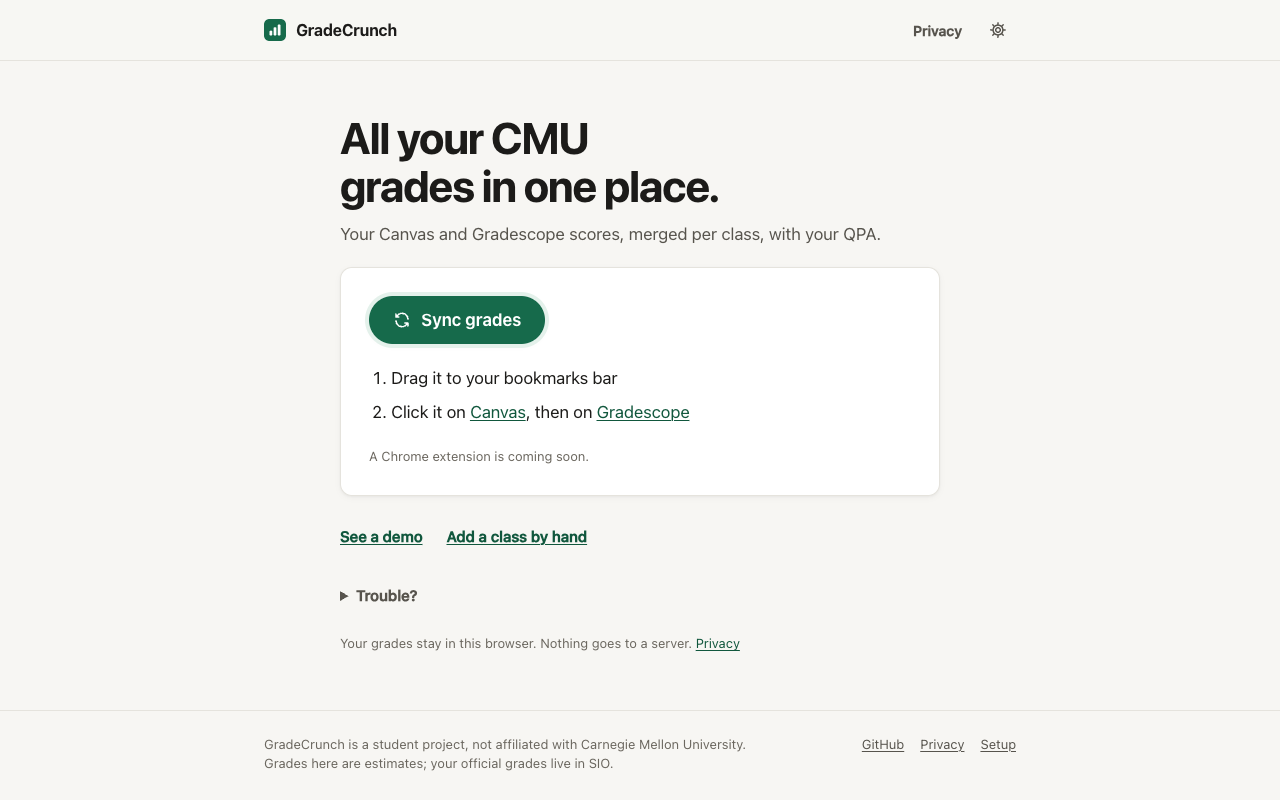
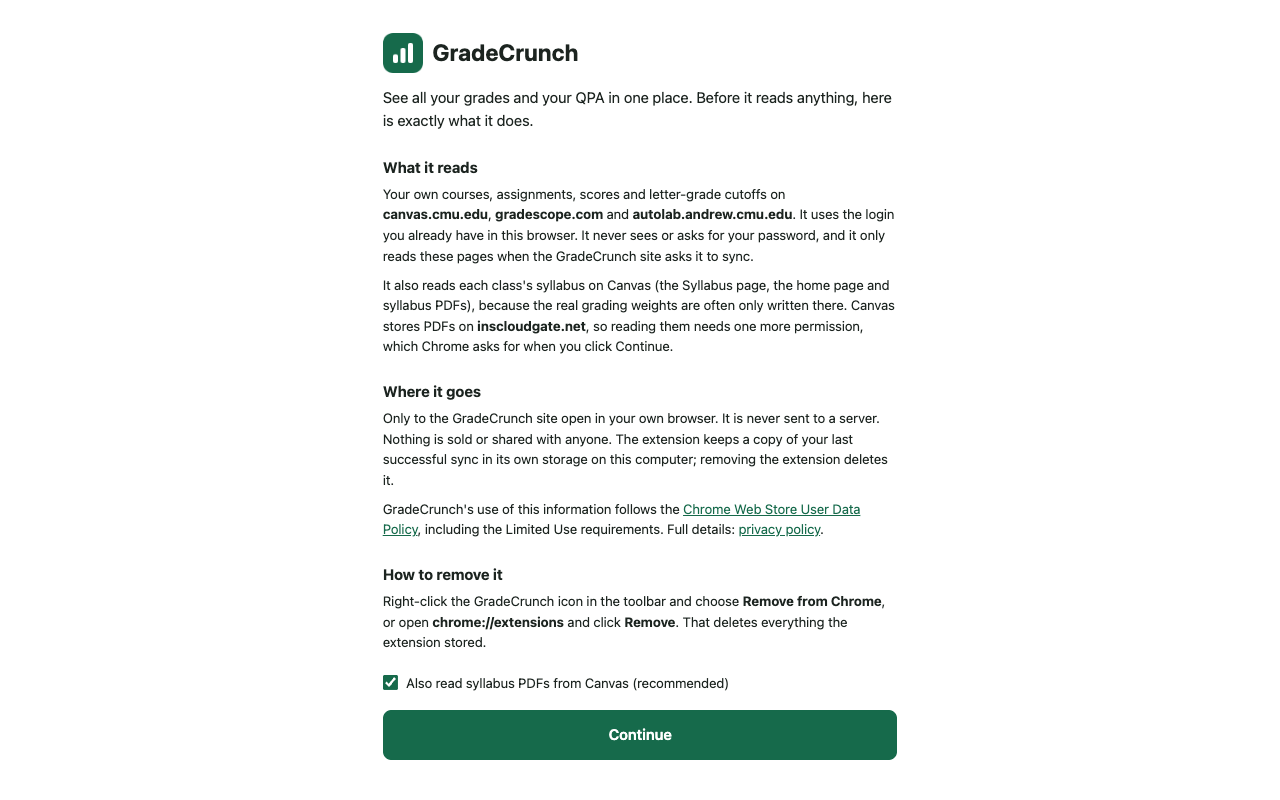
Store screenshot 3 shows the extension's welcome page

diff --git a/CHROMEWEBSTORE.md b/CHROMEWEBSTORE.md
@@ -57,7 +57,7 @@ estimated QPA, on the GradeCrunch website. (**1.1.0** - name SIO next to Autolab
 | Store Icon | 128x128 PNG | Ready | extension/icons/icon128.png (inside the zip) |
 | Screenshot 1 | 1280x800 | Ready | store/screenshot-2-dashboard.png |
 | Screenshot 2 | 1280x800 | Ready | store/screenshot-3-class.png |
-| Screenshot 3 | 1280x800 | Replace | store/screenshot-1-welcome.png |
+| Screenshot 3 | 1280x800 | Ready | store/screenshot-1-welcome.png |
 | Small Promo Tile | 440x280 | Ready | store/promo-tile-440x280.png |
 | Marquee Promo Tile | 1400x560 | Not made (optional) | |
 
@@ -69,9 +69,9 @@ All sizes checked 2026-11-13.
   for an A. Demo data.
 - Screenshot 2 (class page, 15-122) - percent and letter, what you need for each letter, assignments by category with
   weights, the what-if switch. Demo data.
-- Screenshot 3 - the current file is the old website home page (bookmarklet steps and "A Chrome extension is coming
-  soon"), which is wrong for the extension's own listing. Replace it with the extension's welcome page (what it reads,
-  where it goes, the syllabus PDF checkbox) or leave it out.
+- Screenshot 3 (extension welcome page) - what it reads, where it goes, how to remove it, the syllabus PDF checkbox
+  and Continue, as a student sees it right after installing. Taken from the v1.1.0 build on 2026-11-13 at 83% zoom so
+  the whole page down to Continue fits in 1280x800. Retake it once the welcome page mentions SIO.
 
 ## Permissions Justification
 
@@ -157,10 +157,10 @@ still has to be added for 1.1.0.
 - [ ] Developer account registered (steps in `store/LISTING.md`).
 - [ ] Fresh `npm run build:extension`, then upload `gradecrunch-extension.zip` (it holds only the extension's own
   files, no source, tests or docs).
-- [ ] Screenshot 3 replaced (see Screenshot Notes).
+- [x] Screenshot 3 replaced with the extension's welcome page (2026-11-13).
 - [ ] Site deployed, so the privacy policy covers syllabi and the PDF permission.
 - [ ] **1.1.0** - SIO added to the store description, the privacy policy and the extension's welcome page (its "What it
-  reads" still lists only Canvas, Gradescope and Autolab).
+  reads" still lists only Canvas, Gradescope and Autolab), then screenshot 3 retaken.
 - [ ] **Ask chat** - if it ships, the site sends a summary of the student's grades (collected by this extension) and
   their saved notes to OpenAI through its `/api/chat` function whenever the student uses the chat
   (`functions/api/chat.ts`, not committed yet). "Nothing goes to a server" (manifest description, store description,
